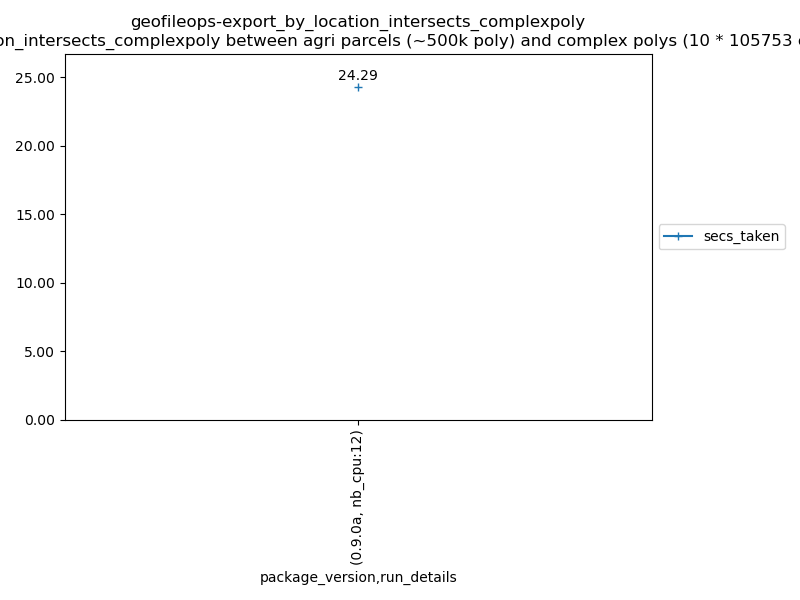
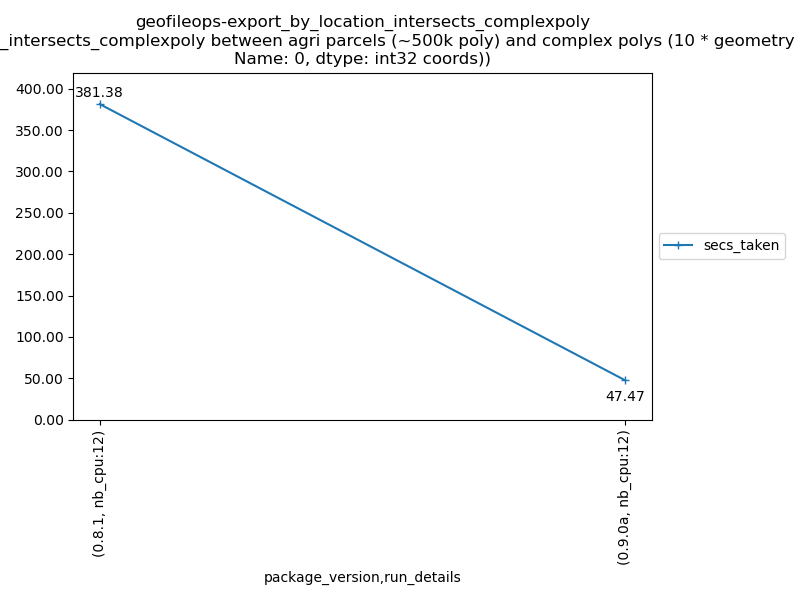
Update benchmarks with before and after + more complex complexpolys

diff --git a/benchmark/benchmarks/benchmarks_geofileops.py b/benchmark/benchmarks/benchmarks_geofileops.py
@@ -261,7 +261,7 @@ def export_by_location_intersects_complexpoly(tmp_dir: Path) -> RunResult:
 
     input1_path, _ = testdata.TestFile.AGRIPRC_2018.get_file(tmp_dir)
     input2_path, input1_descr = testdata.TestFile.COMPLEX_POLYS.get_file(
-        tmp_dir, nb_points=100_000
+        tmp_dir, nb_points=300_000
     )
 
     # Go!
@@ -275,7 +275,7 @@ def export_by_location_intersects_complexpoly(tmp_dir: Path) -> RunResult:
         input_to_compare_with_path=input2_path,
         output_path=output_path,
         nb_parallel=nb_parallel,
-        # subdivide_coords=7500,
+        # subdivide_coords=0,
         force=True,
     )
     result = RunResult(

diff --git a/benchmark/benchmark_geofileops.py b/benchmark/benchmark_geofileops.py
@@ -10,7 +10,7 @@ def main():
     """
     functions_to_run = [
         "export_by_location_intersects_complexpoly",
-        "export_by_location_intersects",
+        # "export_by_location_intersects",
         # "join_by_location_intersects",
         # "clip",
         # "intersection",
